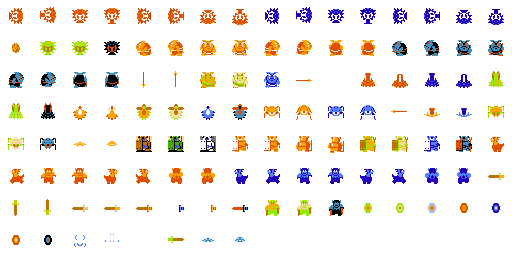
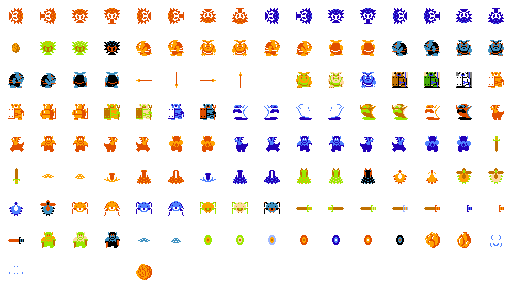
Adjustable minimum frame sizes

diff --git a/main.c b/main.c
@@ -35,6 +35,7 @@ typedef struct
     const char* outputImage;
     int fw, fh;
     int maxDistFromEdge;
+	int minW, minH;
     bool pot;
     int dw;
 } Args;
@@ -47,7 +48,8 @@ static void PrintUsage(const char* app)
     fprintf(stderr, "Options:\n");
     fprintf(stderr, "\t--frame-width DESIRED_FRAME_WIDTH\n\t\tDesired width of the frames\n");
     fprintf(stderr, "\t--frame-height DESIRED_FRAME_HEIGHT\n\t\tDesired height of the frames\n");
-    fprintf(stderr, "\t-e EDGE_DISTANCE_THRESHOLD\n\t\tThe edge distance threshold is used to determine whether disconnected pixels still belong to a frame.\n\t\tIf the distance from these pixels to the nearest edge is less than or equal to the\n\t\tthreshold, then they're incorporated.\n");
+    fprintf(stderr, "\t-e EDGE_DISTANCE_THRESHOLD\n\t\tThe edge distance threshold is used to determine whether disconnected pixels still belongs to a frame.\n\t\tIf the distance from these pixels to the nearest edge is less than or equal to the\n\t\tthreshold, then they're incorporated.\n");
+    fprintf(stderr, "\t--min-width MIN_FRAME_WIDTH\n\t--min-height MIN_FRAME_HEIGHT\n\t\tAll frames smaller than these in both dimensions will be discarded.\n\t\tBy default these are frame width / 4 and frame height / 4.\n");
     fprintf(stderr, "\t--pot\n\t\tThis is optional. It makes the app generate a power of two image.\n");
     fprintf(stderr, "\t--dest-width DESIRED_OUTPUT_IMAGE_WIDTH\n\t\tThis is optional and mutually exclusive with the --pot option.\n\t\tThis is the width you want the output image to be.\n\t\tThe height will be determined from the number of frames detected.\n");
 	fprintf(stderr, "\t--row-thresh DESIRED_ROW_THRESHOLD\n\t\tThis is equal to half the frame height by default.\n\t\tIt is used to order the resulting frames. If two frames are within the threshold on the y axis\n\t\tthen they are ordered from left-to-right next to each other in the final image.\n");
@@ -65,6 +67,8 @@ static bool ParseArgs(Args* args, int argc, char** argv)
     args->outputImage = NULL;
     args->fw = 0;
     args->fh = 0;
+	args->minW = 0;
+	args->minH = 0;
     args->maxDistFromEdge = 0;
     args->pot = false;
     args->dw = 0;
@@ -79,7 +83,13 @@ static bool ParseArgs(Args* args, int argc, char** argv)
         } else if(strcmp(argv[i], "--frame-height") == 0) {
             args->fh = atoi(argv[i + 1]);
             i += 1;
-        } else if(strcmp(argv[i], "--dest-width") == 0) {
+		} else if (strcmp(argv[i], "--min-width") == 0) {
+			args->minW = atoi(argv[i + 1]);
+			i += 1;
+		} else if (strcmp(argv[i], "--min-height") == 0) {
+			args->minH = atoi(argv[i + 1]);
+			i += 1;
+		} else if (strcmp(argv[i], "--dest-width") == 0) {
             args->dw = atoi(argv[i + 1]);
             i += 1;
         } else if(strcmp(argv[i], "-e") == 0) {
@@ -139,6 +149,14 @@ static bool ParseArgs(Args* args, int argc, char** argv)
     	fprintf(stderr, "Dest width must be a multiple of frame width.\n");
     	return false;
     }
+
+	if (args->minW == 0) {
+		args->minW = args->fw / 4;
+	}
+
+	if (args->minH == 0) {
+		args->minH = args->fh / 4;
+	}
 
 	if (CompareFramesRowThresh == 0) {
 		CompareFramesRowThresh = args->fh / 2;
@@ -267,7 +285,7 @@ int main(int argc, char** argv)
 
             Rect r = { minX, minY, maxX - minX + 1, maxY - minY + 1 };
 
-    		if (r.w < fw / 4 && r.h < fh / 4) {
+    		if (r.w < args.minW && r.h < args.minH) {
     			fprintf(stderr, "Found rect (%d,%d,%d,%d) but it's too small so I'm skipping it.\n", r.x, r.y, r.w, r.h);
     		} else if(r.w > fw) {
                 fprintf(stderr, "Found rect (%d,%d,%d,%d) but it's too large to fit in a single frame so I'm skipping it.\n", r.x, r.y, r.w, r.h);
